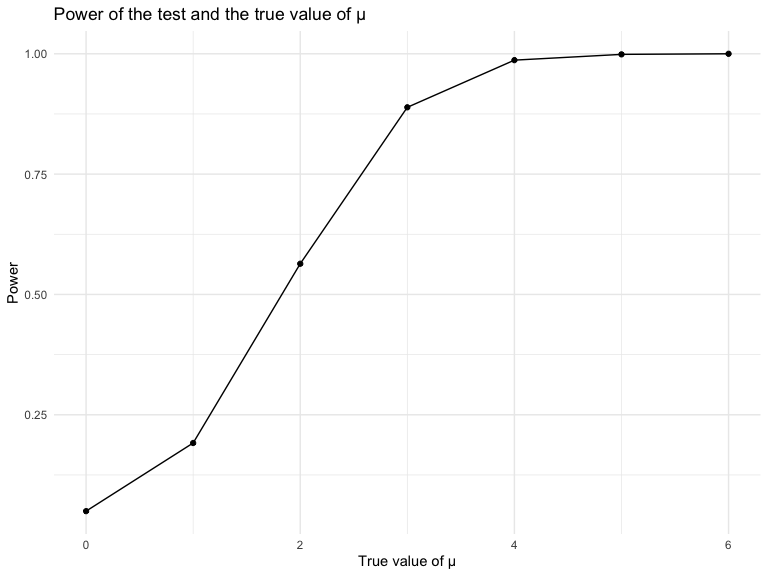
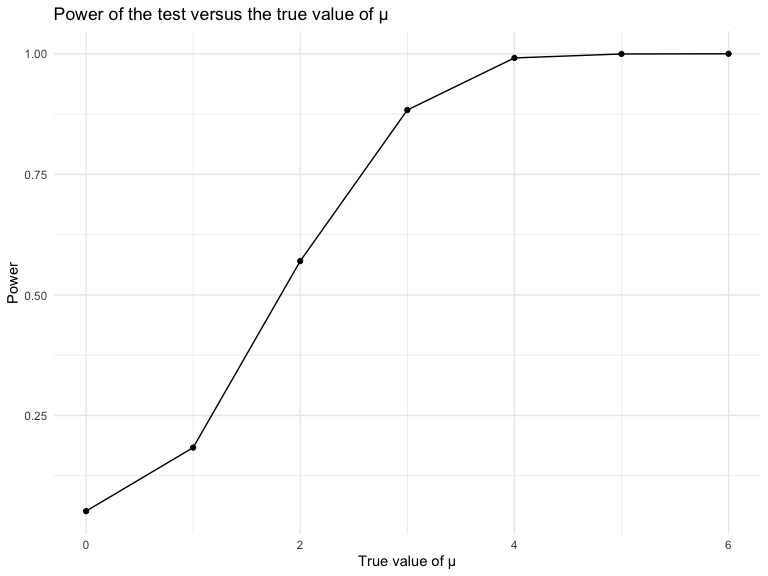
committing plots and comments in problem 3

diff --git a/p8105_hw5_ec3663.md b/p8105_hw5_ec3663.md
@@ -248,7 +248,7 @@ sim_results |>
   ggplot(aes(x = mu_df, y = proport)) +
   geom_point() +
   geom_line() +
-  labs(x = "True value of μ", y = "Power", title = "Power of the test and the true value of μ")
+  labs(x = "True value of μ", y = "Power", title = "Power of the test versus the true value of μ")
 ```
 
 <img src="p8105_hw5_ec3663_files/figure-gfm/unnamed-chunk-6-1.png" width="90%" />
@@ -256,3 +256,37 @@ sim_results |>
 The plot depicts a curve of test power that increases between the true
 values of mu of 0 to around 4 until it plateaus. The plot indicates that
 as the effect size increases, the power of the test also increases.
+
+Plot showing average estimate of mu_hat and true value of mu
+
+``` r
+sim_results |> 
+  group_by(mu_df) |> 
+  mutate(mu_hat_avg = mean(mu_hat)) |> 
+  ggplot(aes(x = mu_df, y = mu_hat_avg)) +
+  geom_point() +
+  geom_line() +
+  labs(x = "True value of μ", y = "Average estimate of μ_hat", title = "Average estimate of μ_hat versus the true value of μ")
+```
+
+<img src="p8105_hw5_ec3663_files/figure-gfm/unnamed-chunk-7-1.png" width="90%" />
+
+Plot showing average estimate of mu_hat for samples in which null was
+rejected and true value of mu
+
+``` r
+sim_results |> 
+  group_by(mu_df) |> 
+  filter(pval<0.05) |> 
+  mutate(mu_hat_avg = mean(mu_hat)) |> 
+  ggplot(aes(x = mu_df, y = mu_hat_avg)) +
+  geom_point() +
+  geom_line() +
+  labs(x = "True value of μ", y = "Average estimate of μ_hat", title = "Average estimate of μ_hat when null was rejected versus the true value of μ")
+```
+
+<img src="p8105_hw5_ec3663_files/figure-gfm/unnamed-chunk-8-1.png" width="90%" />
+
+The sample average of mu_hat across tests for which the null is rejected
+is not approximately equal to the true value of mu. When observing the
+two plots,
